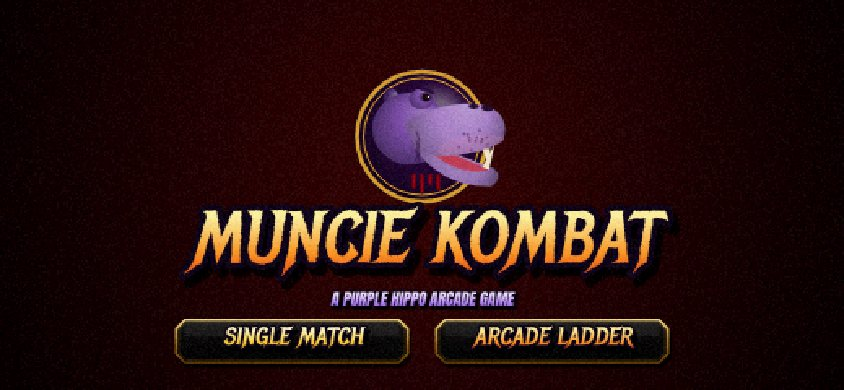
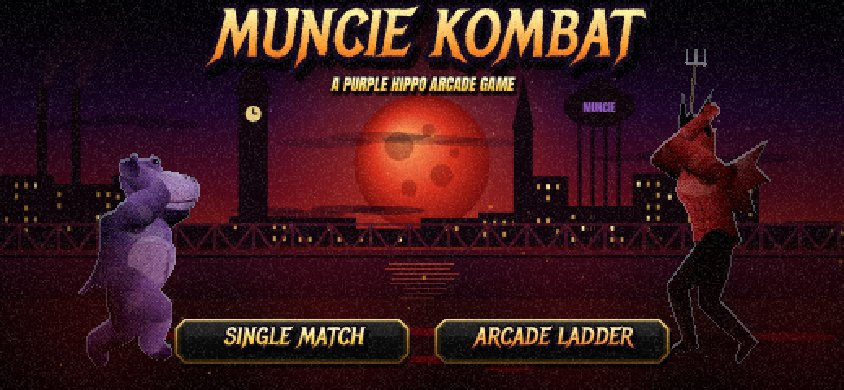
Title screen artwork; Devil Dan selectable as opponent; president height split; fresh README screenshots
Claude-Session: https://claude.ai/code/session_01RATZJKSN4G9uQqnnTt55ev

diff --git a/js/config.js b/js/config.js
@@ -10,6 +10,71 @@ window.GAME = {
   mascot: 'hippo',                                       // head on the title emblem
   toasty: { fighter: 'hippo', text: 'SQUARE SLICED!' },  // pops in after some uppercuts
 
+  // ---------- title screen: the Purple Hippo and Devil Dan square off under a blood moon over Muncie ----------
+  titleScene(g, W, H, t) {
+    const R = RIG, PI = Math.PI, HZ = 150;
+    const hash = n => { const x = Math.sin(n * 127.1 + 311.7) * 43758.5453; return x - Math.floor(x); };
+    // sky
+    let gr = g.createLinearGradient(0, 0, 0, HZ);
+    gr.addColorStop(0, '#07010f'); gr.addColorStop(0.45, '#22062e'); gr.addColorStop(0.8, '#5a0a1c'); gr.addColorStop(1, '#8a1a14');
+    g.fillStyle = gr; g.fillRect(0, 0, W, HZ + 2);
+    for (let i = 0; i < 60; i++) { const a = 0.3 + 0.5 * Math.abs(Math.sin(t * 1.5 + i)); g.fillStyle = `rgba(255,230,255,${a * (1 - hash(i + 9) * 0.6)})`; g.fillRect(hash(i) * W, hash(i + 40) * 90, 1, 1); }
+    // blood moon
+    const mx = W / 2, my = 100, mr = 42;
+    gr = g.createRadialGradient(mx, my, mr * 0.6, mx, my, mr * 2.6); gr.addColorStop(0, 'rgba(255,80,40,0.45)'); gr.addColorStop(1, 'rgba(255,40,20,0)');
+    g.fillStyle = gr; g.fillRect(mx - mr * 2.6, my - mr * 2.6, mr * 5.2, mr * 5.2);
+    gr = g.createRadialGradient(mx - 12, my - 14, 4, mx, my, mr); gr.addColorStop(0, '#ff9a5a'); gr.addColorStop(0.55, '#d8301c'); gr.addColorStop(1, '#7a0c0c');
+    g.fillStyle = gr; g.beginPath(); g.arc(mx, my, mr, 0, PI * 2); g.fill();
+    g.fillStyle = 'rgba(90,0,0,0.35)'; for (const [cx, cy, cr] of [[-14, -10, 9], [12, 8, 7], [4, -20, 4], [-8, 16, 5], [20, -6, 3]]) { g.beginPath(); g.arc(mx + cx, my + cy, cr, 0, PI * 2); g.fill(); }
+    // clouds drifting across the moon
+    for (let i = 0; i < 7; i++) { const cx = ((i * 173 + t * (5 + i * 2)) % (W + 240)) - 120, cy = 64 + i * 11, rw = 60 + hash(i + 900) * 50; g.fillStyle = `rgba(16,3,20,${0.25 + hash(i + 950) * 0.25})`; for (let j = 0; j < 4; j++) { g.beginPath(); g.ellipse(cx + (j - 1.5) * rw * 0.35, cy + Math.sin(j * 2.1 + i) * 2, rw * 0.32, 1.6 + hash(i * 4 + j) * 1.8, 0, 0, PI * 2); g.fill(); } }
+    // skyline: downtown blocks, City Hall's clock tower, a steeple, the water tower and the glass works stacks
+    const SIL = '#12040c';
+    g.fillStyle = SIL;
+    for (let x = 0, i = 0; x < W; i++) { const w = 16 + hash(i + 3) * 26, h = (12 + hash(i + 70) * 34) * (Math.abs(x + w / 2 - W / 2) < 70 ? 0.45 : 1); g.fillRect(x, HZ - h, w + 1, h + 2);
+      for (let wy = HZ - h + 5; wy < HZ - 4; wy += 7) for (let wx = x + 3; wx < x + w - 3; wx += 6) { const on = hash(wx * 7 + wy * 13 + i); if (on > 0.62) { g.fillStyle = on > 0.93 && Math.sin(t * 3 + on * 40) > 0.6 ? '#ffe9a0' : 'rgba(255,190,90,0.75)'; g.fillRect(wx, wy, 2, 3); g.fillStyle = SIL; } }
+      x += w; }
+    const tw = W * 0.3;   // clock tower
+    g.fillRect(tw - 9, HZ - 92, 18, 92); g.beginPath(); g.moveTo(tw - 12, HZ - 92); g.lineTo(tw, HZ - 116); g.lineTo(tw + 12, HZ - 92); g.fill();
+    g.fillStyle = '#f2d88a'; g.beginPath(); g.arc(tw, HZ - 80, 5, 0, PI * 2); g.fill(); g.strokeStyle = SIL; g.lineWidth = 1; g.beginPath(); g.moveTo(tw, HZ - 80); g.lineTo(tw, HZ - 83.5); g.moveTo(tw, HZ - 80); g.lineTo(tw + 2.5, HZ - 80); g.stroke(); g.fillStyle = SIL;
+    const st = W * 0.62; g.fillRect(st - 6, HZ - 70, 12, 70); g.beginPath(); g.moveTo(st - 7, HZ - 70); g.lineTo(st, HZ - 104); g.lineTo(st + 7, HZ - 70); g.fill();   // steeple
+    const wt = W * 0.71;   // water tower
+    for (const lx of [-12, -4, 4, 12]) g.fillRect(wt + lx - 1, HZ - 74, 2, 74);
+    g.beginPath(); g.ellipse(wt, HZ - 84, 22, 12, 0, 0, PI * 2); g.fill(); g.beginPath(); g.moveTo(wt - 22, HZ - 88); g.lineTo(wt, HZ - 104); g.lineTo(wt + 22, HZ - 88); g.fill();
+    g.fillStyle = 'rgba(190,120,255,0.8)'; g.font = '7px Anton, Impact, sans-serif'; g.textAlign = 'center'; g.fillText('MUNCIE', wt, HZ - 81); g.textAlign = 'left'; g.fillStyle = SIL;
+    for (const sx of [W * 0.05, W * 0.09]) { g.fillRect(sx - 3, HZ - 96, 6, 96);   // glass works stacks, smoking
+      for (let i = 0; i < 6; i++) { const u = ((t * 0.35 + i / 6) % 1); g.fillStyle = `rgba(60,20,40,${0.55 * (1 - u)})`; g.beginPath(); g.arc(sx + u * 26 + Math.sin(u * 6 + i) * 3, HZ - 98 - u * 40, 3 + u * 9, 0, PI * 2); g.fill(); }
+      g.fillStyle = SIL; }
+    // the railroad bridge over the river
+    const BY = HZ + 4;
+    g.fillStyle = '#3a0a1a'; g.fillRect(0, BY, W, 5); g.fillStyle = '#0a0206'; g.fillRect(0, BY + 3, W, 2);
+    g.strokeStyle = '#4a1022'; g.lineWidth = 1.6; g.beginPath(); g.moveTo(0, BY - 16); g.lineTo(W, BY - 16);
+    for (let x = 0; x < W; x += 24) { g.moveTo(x, BY); g.lineTo(x + 12, BY - 16); g.lineTo(x + 24, BY); g.moveTo(x + 12, BY - 16); g.lineTo(x + 12, BY); }
+    g.stroke();
+    // river with the moon in it
+    gr = g.createLinearGradient(0, BY + 5, 0, 186); gr.addColorStop(0, '#2a0618'); gr.addColorStop(1, '#0c0208');
+    g.fillStyle = gr; g.fillRect(0, BY + 5, W, 186 - BY - 5);
+    for (let i = 0; i < 9; i++) { const y = BY + 8 + i * 3, w = 44 - i * 3 + Math.sin(t * 2 + i) * 4; g.fillStyle = `rgba(255,90,50,${0.5 - i * 0.045})`; g.fillRect(mx - w / 2 + Math.sin(t * 1.3 + i * 2) * 3, y, w, 1); }
+    // ground
+    gr = g.createLinearGradient(0, 184, 0, H); gr.addColorStop(0, '#1a0608'); gr.addColorStop(1, '#050102');
+    g.fillStyle = gr; g.fillRect(0, 184, W, H - 184);
+    g.fillStyle = 'rgba(120,0,10,0.5)'; for (let i = 0; i < 7; i++) { g.beginPath(); g.ellipse(hash(i + 200) * W, 200 + hash(i + 300) * 30, 14 + hash(i) * 20, 2.5, 0, 0, PI * 2); g.fill(); }
+    // the fighters: the Purple Hippo and Devil Dan, squared off
+    const pose = (ph, face) => R.P({ hy: 6 + Math.sin(t * 3 + ph) * 1.5, lean: 0.14, head: 0.05, aF: [2.05, 1.75], aB: [1.7, 2.1], fF: [13, 0], fB: [-15, 0] });
+    const hip = ROSTER.FIGHTERS.find(f => f.id === 'hippo'), dan = ROSTER.BOSSES.find(f => f.id === 'dan');
+    const fs = [[hip, W * 0.15, 1, 0], [dan, W * 0.85, -1, 1.7]];
+    for (const [def, x, face, ph] of fs) { if (!def) continue; const f = { def, d: def.dk, x, y: 210, face, t: t + ph };
+      g.fillStyle = 'rgba(0,0,0,0.55)'; g.beginPath(); g.ellipse(x, 211, 34, 5, 0, 0, PI * 2); g.fill();
+      R.digi(g, x, 210, gg => R.draw(gg, f, pose(ph, face), {}), { phase: ph > 0 ? 1 : 0 }); }
+    // embers drifting up, red fog along the ground
+    for (let i = 0; i < 46; i++) { const sp = 14 + (i % 5) * 7, y = H - ((t * sp + i * 41) % (H - 40)), x = (hash(i + 500) * W + Math.sin(t * 1.3 + i) * 10 + t * 4) % W; g.fillStyle = `rgba(255,${120 + (i % 4) * 30},40,${0.25 + 0.55 * (y / H)})`; g.fillRect(x, y, i % 7 ? 1 : 2, i % 7 ? 1 : 2); }
+    for (let i = 0; i < 5; i++) { const x = ((i * 140 + t * (8 + i * 3)) % (W + 220)) - 110; gr = g.createRadialGradient(x, 206, 4, x, 206, 90); gr.addColorStop(0, 'rgba(150,10,20,0.28)'); gr.addColorStop(1, 'rgba(150,10,20,0)'); g.fillStyle = gr; g.fillRect(x - 90, 150, 180, 90); }
+    // a dark band behind the title, and the odd lightning flash
+    gr = g.createLinearGradient(0, 0, 0, 66); gr.addColorStop(0, 'rgba(0,0,0,0.7)'); gr.addColorStop(1, 'rgba(0,0,0,0)'); g.fillStyle = gr; g.fillRect(0, 0, W, 66);
+    const fl = t % 9; if (fl < 0.12 || (fl > 0.2 && fl < 0.26)) { g.fillStyle = 'rgba(255,220,255,0.14)'; g.fillRect(0, 0, W, H); }
+    gr = g.createRadialGradient(W / 2, H / 2, H * 0.4, W / 2, H / 2, W * 0.7); gr.addColorStop(0, 'rgba(0,0,0,0)'); gr.addColorStop(1, 'rgba(0,0,0,0.6)'); g.fillStyle = gr; g.fillRect(0, 0, W, H);
+  },
+
   // ---------- the announcer: the same recorded robot as POTUS Kombat, crackling over the radio ----------
   // built by tools/make_voice.py (rerun it after adding a fighter or a spoken line)
   voiceClips: 'voice/',

diff --git a/js/fighters.js b/js/fighters.js
@@ -965,9 +965,9 @@ const ROSTER = (() => {
     g.fillStyle = 'rgba(255,250,210,0.7)'; g.fillRect(x - r * 0.5, y - r * 0.6, r * 0.4, r * 0.3);
   }
   const prez = {
-    id: 'prez', name: 'PRES. NEVER LEARNS', short: 'NEVER LEARNS', him: 'HIM', k: 1.0, bicep: 0, calf: 0,
+    id: 'prez', name: 'PRES. NEVER LEARNS', short: 'NEVER LEARNS', him: 'HIM', k: 0.95, bicep: 0, calf: 0,
     bio: 'The university president. Raised tuition, cut your program and gave himself a bonus. Office hours: never.',
-    d: dims({ thigh: 32, shin: 31, torso: 38, neck: 5, upper: 22, fore: 21, hipW: 10, shW: 12, chest: 11.5, belly: 10.5, back: 9.5, thighR: 5.5, kneeR: 4, ankleR: 3, shR: 5, elbowR: 4.2, wristR: 2.8, fist: 3.4 }),
+    d: dims({ thigh: 29, shin: 28, torso: 35.5, neck: 3, upper: 20.5, fore: 19.5, hipW: 10.5, shW: 12.5, chest: 12, belly: 11, back: 10, thighR: 5.8, kneeR: 4.1, ankleR: 3.1, shR: 5.2, elbowR: 4.4, wristR: 2.9, fist: 3.5 }),
     col: { torso: PRG, armU: PRG, armL: PRG, cuff: PRG, hand: PRS, legU: '#2a2a30', legL: '#2a2a30', foot: '#0c0c0e', neck: PRS },
     mat: { torso: 'cloth', armU: 'cloth', armL: 'cloth', legU: 'cloth', legL: 'cloth' },
     stats: { speed: 1.02, power: 0.95, weight: 0.85 },
@@ -1607,7 +1607,7 @@ const ROSTER = (() => {
   Object.assign(tinkle, { arena: 'cityhall', cpuLvl: 0.34, aiStyle: { noBlock: true, quips: ['STOP RESISTING!', 'ON THE GROUND!', 'I AM THE LAW!', 'GET SOME!'] } });
   Object.assign(golem, { arena: 'glassworks', death: 'golemDie', sp2Mod: { dmg: 14, quake: 1 }, vanish: true });
   Object.assign(slumlord, { arena: 'rental', death: 'slumDie', aiStyle: { taunt: 0.12 } });
-  Object.assign(dan, { arena: 'hell', death: 'danDie', sp2Mod: { fire: 1 }, fireTrail: true, ladderOnly: true });
+  Object.assign(dan, { arena: 'hell', death: 'danDie', sp2Mod: { fire: 1 }, fireTrail: true });
 
   const PORTRAIT = { karen: [0.42, 0.98, 0.9], catbear: [0.36, 0.92, 0.85], councilman: [0.42, 0.98, 0.9], prez: [0.42, 0.98, 1.0], gertie: [0.42, 0.78, 1.5], painter: [0.5, 0.86, 0.85], hippo: [0.3, 0.9, 0.85], garf: [0.4, 0.9, 0.95], turkey: [0.36, 0.94, 1.45], chucky: [0.38, 0.95, 0.85], wolfe: [0.3, 0.92, 0.8], em: [0.42, 0.96, 0.95], slumlord: [0.42, 0.92, 0.85], tinkle: [0.42, 0.96, 0.9], golem: [0.5, 0.7, 1], dan: [0.42, 0.95, 0.85], tinman: [0.4, 1.02, 0.78], bunyon: [0.42, 0.98, 0.82], becky: [0.42, 0.94, 0.95], possum: [0.28, 0.9, 0.85] };
   return KIT.roster(FIGHTERS, BOSSES, { front: FRONT, portrait: PORTRAIT });

diff --git a/index.html b/index.html
@@ -14,7 +14,7 @@
 <link rel="icon" type="image/png" href="icons/icon-192.png">
 <link rel="preload" href="engine/fonts/anton.woff2" as="font" type="font/woff2" crossorigin>
 <link rel="preload" href="engine/fonts/metal-mania.woff2" as="font" type="font/woff2" crossorigin>
-<link rel="stylesheet" href="engine/kombat.css?v=183">
+<link rel="stylesheet" href="engine/kombat.css?v=183.1">
 </head>
 <body>
 <canvas id="game"></canvas>
@@ -27,18 +27,18 @@
 <button id="pauseBtn" aria-label="Pause">II PAUSE</button>
 <div id="rotate"><div class="phone"></div>TURN YOUR PHONE SIDEWAYS<br><span style="font-size:14px;color:#d8261c">MUNCIE KOMBAT PLAYS IN LANDSCAPE</span></div>
 <!-- Kombat Engine 1.8.0 (engine/) + Muncie Kombat content (js/) -->
-<script src="engine/text.js?v=183"></script>
-<script src="engine/rig.js?v=183"></script>
-<script src="engine/fighterkit.js?v=183"></script>
-<script src="js/fighters.js?v=183"></script>
-<script src="engine/fx.js?v=183"></script>
-<script src="engine/stagekit.js?v=183"></script>
-<script src="js/stages.js?v=183"></script>
-<script src="engine/audio.js?v=183"></script>
-<script src="engine/fatal.js?v=183"></script>
-<script src="js/fatalities.js?v=183"></script>
-<script src="js/config.js?v=183"></script>
-<script src="engine/game.js?v=183"></script>
-<script src="engine/install.js?v=183" data-name="Muncie Kombat" data-key="mk" data-accent="#d8261c"></script>
+<script src="engine/text.js?v=183.1"></script>
+<script src="engine/rig.js?v=183.1"></script>
+<script src="engine/fighterkit.js?v=183.1"></script>
+<script src="js/fighters.js?v=183.1"></script>
+<script src="engine/fx.js?v=183.1"></script>
+<script src="engine/stagekit.js?v=183.1"></script>
+<script src="js/stages.js?v=183.1"></script>
+<script src="engine/audio.js?v=183.1"></script>
+<script src="engine/fatal.js?v=183.1"></script>
+<script src="js/fatalities.js?v=183.1"></script>
+<script src="js/config.js?v=183.1"></script>
+<script src="engine/game.js?v=183.1"></script>
+<script src="engine/install.js?v=183.1" data-name="Muncie Kombat" data-key="mk" data-accent="#d8261c"></script>
 </body>
 </html>

diff --git a/README.md b/README.md
@@ -21,7 +21,7 @@ It then opens full screen like an app. On Android, use the browser menu and choo
 ## Modes
 
 - **Arcade Ladder:** pick a fighter and climb the tower. You fight every other fighter in random order on random arenas, then the four bosses: Ofc Tinkle at City Hall, Fruit Jar Golem at the Glass Works, Slum Lord at The Rental, and Devil Dan in City Hall. That is 23 fights.
-- **Single Match:** pick your fighter, your opponent and the arena. Devil Dan can only be reached through the ladder.
+- **Single Match:** pick your fighter, your opponent and the arena. Every boss, Devil Dan included, can be picked as the opponent.
 
 Matches are best of three rounds. Win the deciding round and you get FINISH HIM.
 
